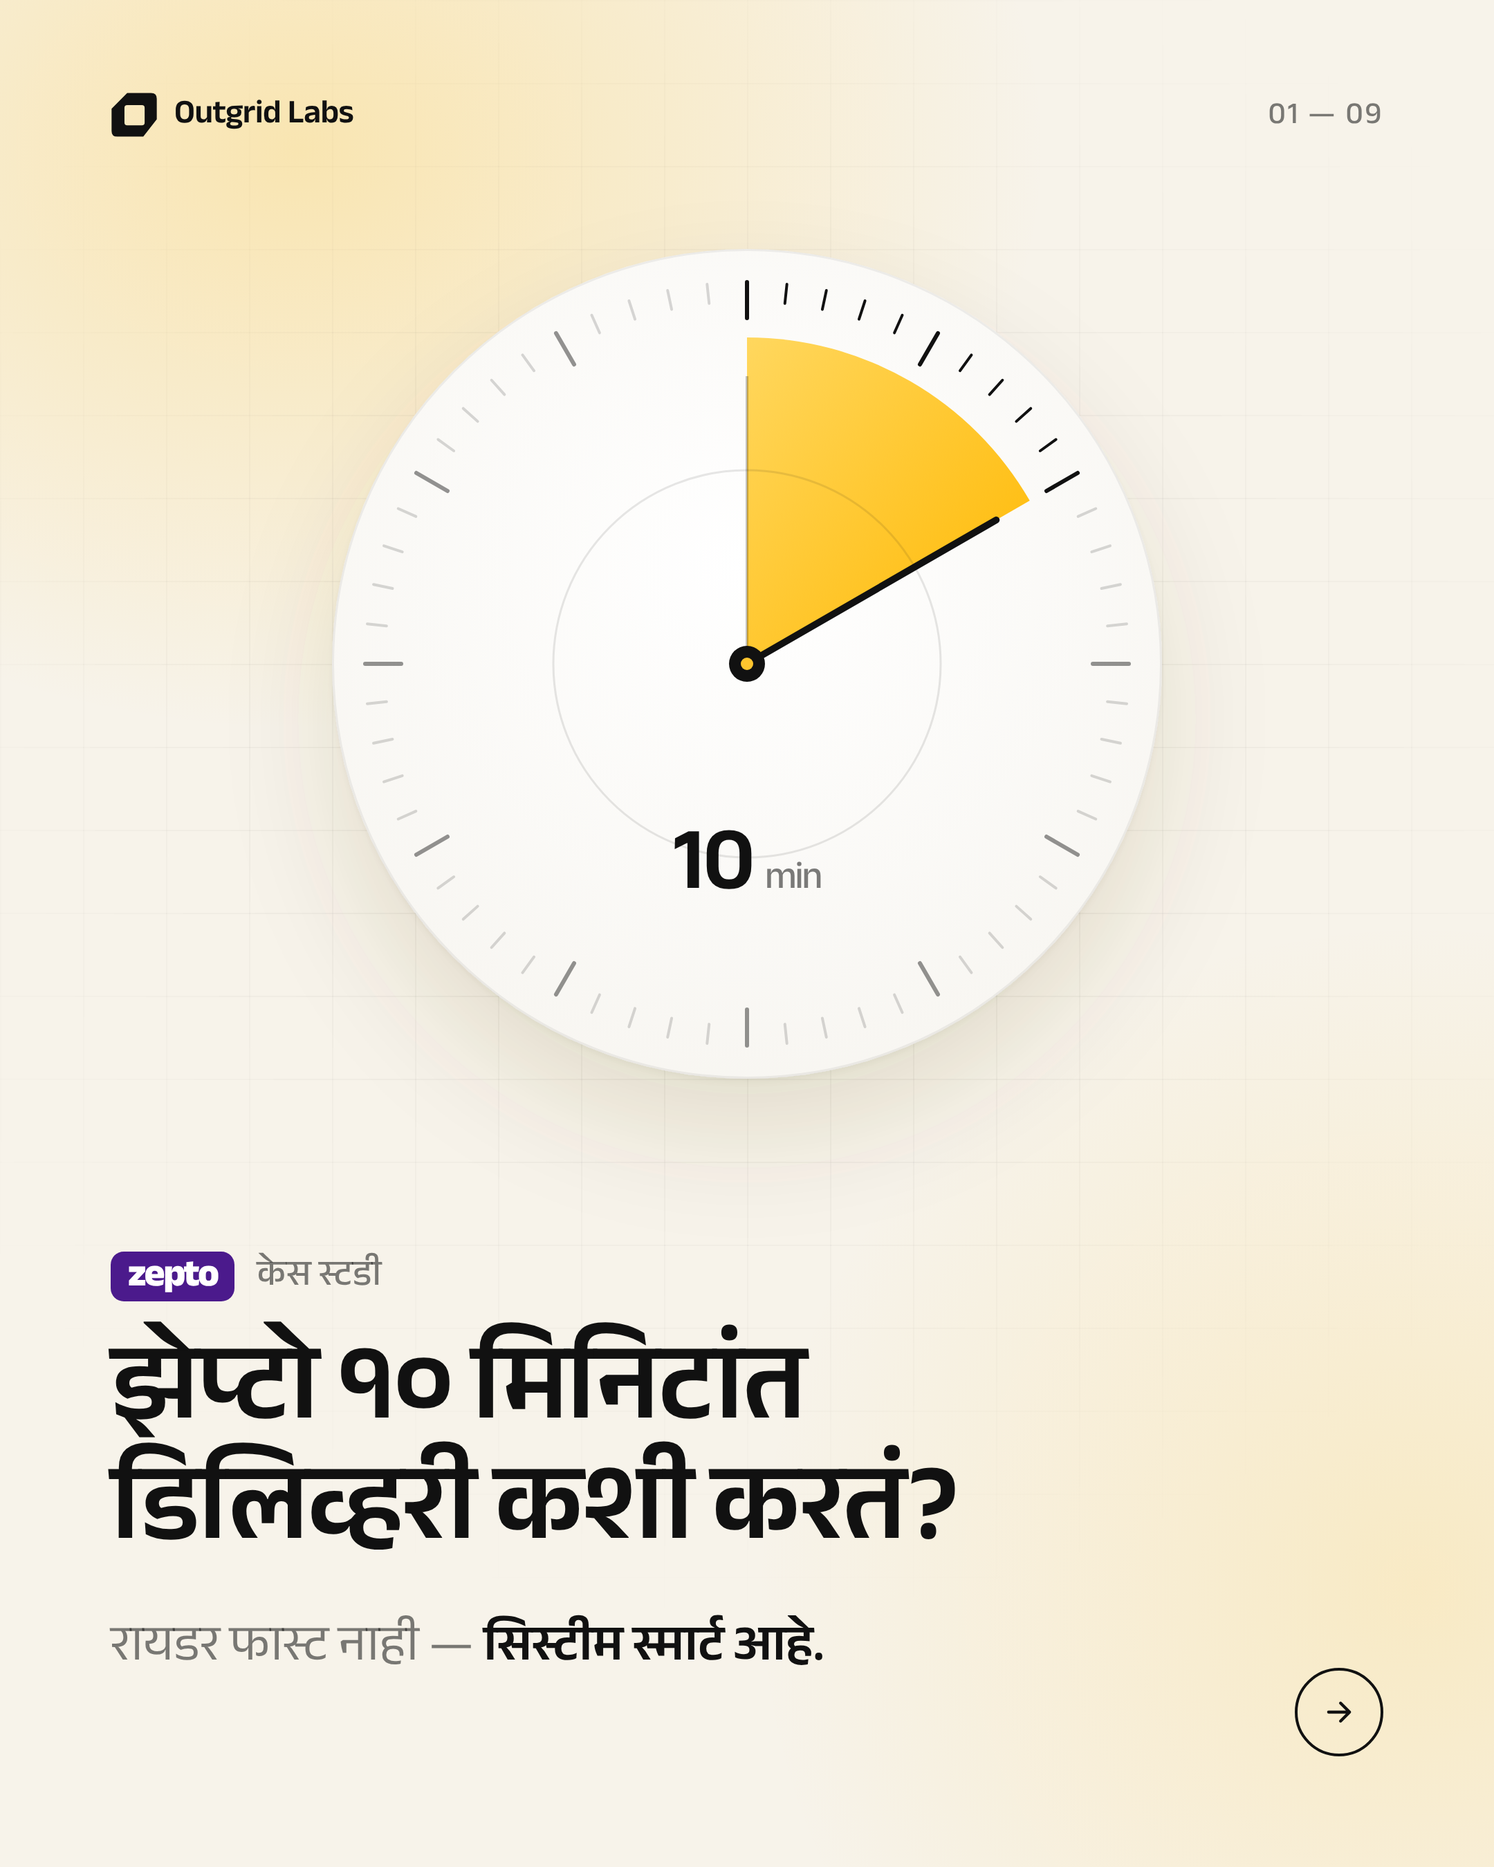
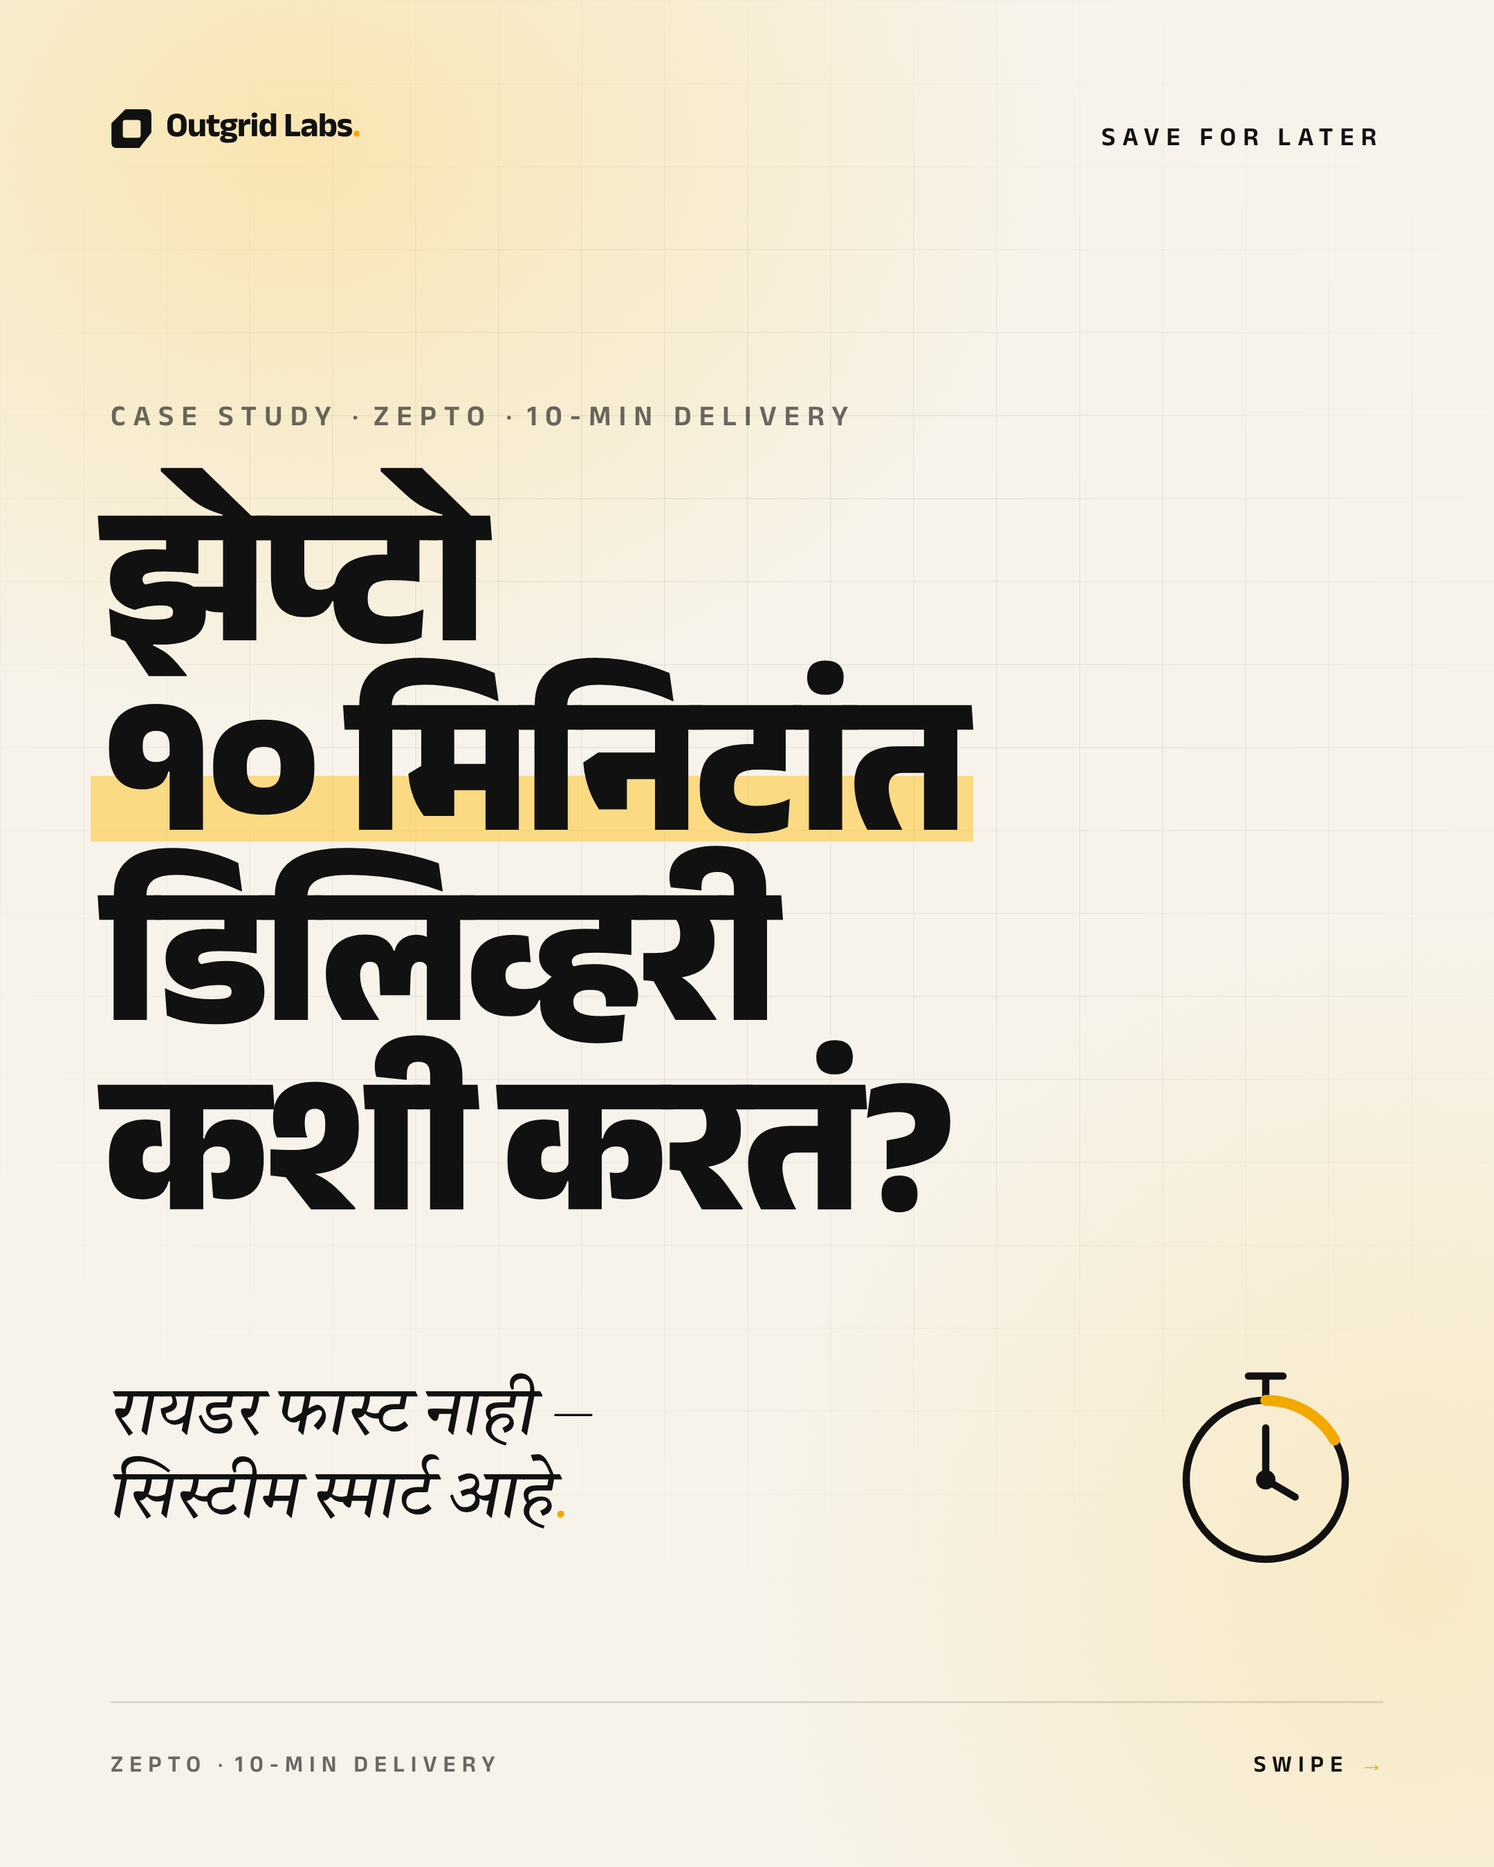
Zepto carousel v3: type-led editorial layout (big cover title, normal inner pages)
Claude-Session: https://claude.ai/code/session_019gSuA1tVo8iRHJcbRmoHkp

diff --git a/outgrid-reels/reels/zepto-carousel/reel.jsx b/outgrid-reels/reels/zepto-carousel/reel.jsx
@@ -1,160 +1,150 @@
 // Zepto "10-minute delivery" Instagram carousel, 1080x1350 (4:5). One frame per slide: frame 0 = slide 1.
-// Outgrid lean light background. v2 direction: one precise hero graphic per slide on a white "lens" disc,
-// hairline geometry, one yellow accent, Zepto purple only for Zepto things, big quiet whitespace, no extra chrome.
+// v3 direction (from the user's focusedmind / yuv.mehta references): type-led editorial.
+//  - Cover: the title IS the design: huge, heavy, tight line height, a marker highlight on the key words, an accent dot.
+//  - Inner pages: normal-size heading + body, one small line-icon diagram (ink strokes, one yellow accent).
+//  - Chrome: brand top-left, tracked caps "SAVE FOR LATER" top-right, hairline footer with topic + "SWIPE →".
+// Background = the regular Outgrid light reel background (cream, grid, yellow glow).
 // Render: node scripts/stills_fast.mjs reels/zepto-carousel reels/zepto-carousel/stills 2 0 1 ...
 import React from 'react';
-import {registerRoot, Composition, AbsoluteFill, useCurrentFrame} from 'remotion';
+import {registerRoot, Composition, AbsoluteFill, useCurrentFrame, staticFile, delayRender, continueRender} from 'remotion';
 import {abs, Y, Mark, BRAND} from '../../shared/kit.jsx';
-import {THEMES, ThemeCtx, LeanBg, LAT, Ico} from '../../shared/lean.jsx';
+import {THEMES, ThemeCtx, LeanBg} from '../../shared/lean.jsx';
+
+// italic serif for the sub-line (Tiro Devanagari Marathi italic + Instrument Serif italic for Latin)
+const fh = delayRender('serif');
+Promise.all([
+  new FontFace('ZSerif', `url(${staticFile('fonts/mai/tiro-devanagari-marathi-devanagari-400-italic.woff2')})`, {style: 'italic', unicodeRange: 'U+0900-097F, U+1CD0-1CF9, U+200C-200D, U+20A8, U+20B9, U+25CC, U+A830-A839, U+A8E0-A8FF'}),
+  new FontFace('ZSerif', `url(${staticFile('fonts/mai/instrument-serif-latin-400-italic.woff2')})`, {style: 'italic'}),
+].map((f) => f.load().then((x) => document.fonts.add(x)))).catch(() => {}).finally(() => continueRender(fh));
 
 const W = 1080, H = 1350, N = 9, PAD = 80;
 const INK = '#111111';
-const SOFT = 'rgba(17,17,17,0.55)';
-const HAIR = 'rgba(17,17,17,0.10)';
-const ZP = '#4B1A8C'; // Zepto purple (placeholder wordmark until the official logo file is added)
-const CX = 540, CY = 480, R = 300; // hero disc
+const SOFT = 'rgba(17,17,17,0.62)';
+const DOT = '#F2A900'; // accent dot: deeper Outgrid yellow so it reads on cream
+const HL = 'rgba(255,197,46,0.55)'; // marker highlight
+const TRACK = {fontFamily: 'Anek, sans-serif', fontSize: 19, fontWeight: 600, letterSpacing: '0.26em', textTransform: 'uppercase', color: INK};
 
-/* ---------- primitives ---------- */
-const P = (cx, cy, r, deg) => [cx + r * Math.sin((deg * Math.PI) / 180), cy - r * Math.cos((deg * Math.PI) / 180)];
-const sector = (cx, cy, r, a0, a1) => {
-  const [x0, y0] = P(cx, cy, r, a0), [x1, y1] = P(cx, cy, r, a1);
-  return `M${cx} ${cy} L${x0} ${y0} A${r} ${r} 0 ${a1 - a0 > 180 ? 1 : 0} 1 ${x1} ${y1} Z`;
-};
-const ZeptoWord = ({size = 30}) => (
-  <div style={{display: 'inline-flex', background: ZP, color: '#fff', borderRadius: size * 0.34, padding: `${size * 0.22}px ${size * 0.44}px ${size * 0.06}px`,
-    fontWeight: 800, fontSize: size, letterSpacing: '-0.045em', lineHeight: 1}}>zepto</div>
+/* ---------- type helpers ---------- */
+// marker highlight behind the lower ~half of the line, like the reference
+const Hl = ({children}) => (
+  <span style={{position: 'relative', display: 'inline-block', isolation: 'isolate'}}>
+    <span style={{position: 'absolute', left: '-0.06em', right: '-0.06em', top: '0.37em', height: '0.34em', background: HL, zIndex: -1}} />{children}
+  </span>
 );
-// the white lens every hero graphic sits on
-const Disc = ({children}) => (
-  <svg width={W} height={980} viewBox={`0 0 ${W} 980`} style={{position: 'absolute', left: 0, top: 0, overflow: 'visible'}}>
-    <defs>
-      <radialGradient id="face" cx="50%" cy="38%" r="70%"><stop offset="0" stopColor="#FFFFFF" /><stop offset="1" stopColor="#F7F5F0" /></radialGradient>
-      <linearGradient id="wedge" x1="0" y1="0" x2="1" y2="1"><stop offset="0" stopColor="#FFD75E" /><stop offset="1" stopColor="#FFB800" /></linearGradient>
-      <filter id="lift" x="-30%" y="-30%" width="160%" height="160%">
-        <feDropShadow dx="0" dy="40" stdDeviation="40" floodColor="#5A430A" floodOpacity="0.12" />
-        <feDropShadow dx="0" dy="2" stdDeviation="2" floodColor="#000" floodOpacity="0.05" />
-      </filter>
-    </defs>
-    <circle cx={CX} cy={CY} r={R} fill="url(#face)" filter="url(#lift)" />
-    <circle cx={CX} cy={CY} r={R - 0.75} fill="none" stroke="rgba(17,17,17,0.06)" strokeWidth="1.5" />
-    {children}
+const Dot = () => <span style={{color: DOT}}>.</span>;
+
+/* ---------- chrome ---------- */
+const Chrome = ({i, topic}) => (
+  <>
+    <div style={{...abs(PAD, 78), display: 'flex', alignItems: 'center', gap: 10}}>
+      <Mark size={30} color={INK} />
+      <div style={{...BRAND, fontSize: 25, fontWeight: 700, color: INK, letterSpacing: '-0.02em'}}>Outgrid Labs<span style={{color: DOT}}>.</span></div>
+    </div>
+    <div style={{...abs(W - PAD - 400, 86), width: 400, textAlign: 'right', ...TRACK}}>Save for later</div>
+    <div style={{...abs(PAD, H - 120), width: W - PAD * 2, height: 1.5, background: 'rgba(17,17,17,0.12)'}} />
+    <div style={{...abs(PAD, H - 86), ...TRACK, fontSize: 17, color: SOFT}}>{topic}</div>
+    <div style={{...abs(W - PAD - 300, H - 86), width: 300, textAlign: 'right', ...TRACK, fontSize: 17}}>
+      {i < N - 1 ? <>Swipe <span style={{color: DOT, letterSpacing: 0}}>→</span></> : `${i + 1} / ${N}`}
+    </div>
+  </>
+);
+const Eyebrow = ({children, top}) => <div style={{...abs(PAD, top), ...TRACK, fontSize: 21, color: SOFT}}>{children}</div>;
+
+/* ---------- line icons: ink strokes + one yellow accent ---------- */
+const SW = 7;
+const Stopwatch = ({size = 170}) => (
+  <svg viewBox="0 0 120 120" width={size} height={size} fill="none" stroke={INK} strokeWidth={SW * 0.6} strokeLinecap="round" strokeLinejoin="round">
+    <path d="M50 8h20M60 8v12" />
+    <circle cx="60" cy="68" r="46" />
+    <path d="M60 22 A46 46 0 0 1 99.8 45" stroke={DOT} strokeWidth={SW * 0.9} />
+    <path d="M60 68V38" /><path d="M60 68l17 10" />
+    <circle cx="60" cy="68" r="3.5" fill={INK} />
   </svg>
 );
-const Mono = ({children, style = {}}) => <div style={{fontSize: 24, fontWeight: 500, color: SOFT, letterSpacing: '0.03em', ...style}}>{children}</div>;
 
-/* ---------- chrome: only the brand and the page number ---------- */
-const Header = ({i}) => (
+/* ---------- slide 1: cover ---------- */
+const S1 = () => (
   <>
-    <div style={{...abs(PAD, 66), display: 'flex', alignItems: 'center', gap: 12}}>
-      <Mark size={34} color={INK} />
-      <div style={{...BRAND, fontSize: 24, fontWeight: 600, color: INK, letterSpacing: '-0.01em'}}>Outgrid Labs</div>
+    <Eyebrow top={286}>Case study · Zepto · 10-min delivery</Eyebrow>
+    <div style={{...abs(PAD - 6, 372), fontSize: 140, fontWeight: 800, color: INK, lineHeight: 0.98, letterSpacing: '-0.035em'}}>
+      <div>झेप्टो</div>
+      <div><Hl>१० मिनिटांत</Hl></div>
+      <div>डिलिव्हरी</div>
+      <div>कशी करतं?</div>
     </div>
-    <div style={{...abs(W - PAD - 120, 72), width: 120, textAlign: 'right', ...BRAND, fontSize: 22, fontWeight: 500, color: SOFT, letterSpacing: '0.06em'}}>
-      {String(i + 1).padStart(2, '0')} — {String(N).padStart(2, '0')}
+    <div style={{...abs(PAD, 990), fontFamily: 'ZSerif, serif', fontStyle: 'italic', fontSize: 50, color: INK, lineHeight: 1.2}}>
+      रायडर फास्ट नाही —<br />सिस्टीम स्मार्ट आहे<Dot />
     </div>
-  </>
-);
-const Swipe = () => (
-  <div style={{...abs(W - PAD - 64, H - PAD - 64), width: 64, height: 64, borderRadius: 32, border: `2px solid ${INK}`, boxSizing: 'border-box', display: 'flex', alignItems: 'center', justifyContent: 'center'}}>
-    <svg viewBox="0 0 24 24" width={26} height={26} fill="none" stroke={INK} strokeWidth="2" strokeLinecap="round" strokeLinejoin="round"><path d="M5 12h14M13 6l6 6-6 6" /></svg>
-  </div>
-);
-// text block anchored to the bottom: eyebrow, title, one quiet line
-const Copy = ({eyebrow, title, body}) => (
-  <div style={{position: 'absolute', left: PAD, bottom: 130, width: W - PAD * 2}}>
-    <div style={{display: 'flex', alignItems: 'center', gap: 16, height: 40}}>{eyebrow}</div>
-    <div style={{marginTop: 26, fontSize: 78, fontWeight: 600, color: INK, lineHeight: 1.12, letterSpacing: '-0.025em'}}>{title}</div>
-    {body && <div style={{marginTop: 26, fontSize: 36, fontWeight: 400, color: SOFT, lineHeight: 1.4, letterSpacing: '-0.01em', maxWidth: 820}}>{body}</div>}
-  </div>
-);
-const Step = ({n, label}) => (
-  <>
-    <Mono style={{color: INK, fontWeight: 600, fontSize: 24}}>{n}</Mono>
-    <div style={{width: 48, height: 2, background: Y}} />
-    <div style={{fontSize: 28, fontWeight: 500, color: SOFT, marginTop: 4}}>{label}</div>
+    <div style={{...abs(W - PAD - 160, 985)}}><Stopwatch size={150} /></div>
   </>
 );
 
-/* ---------- slide 1: a 60-minute dial, the first 10 minutes cut out in yellow ---------- */
-const S1 = () => {
-  const ticks = Array.from({length: 60}, (_, k) => k);
-  const [hx, hy] = P(CX, CY, R - 92, 60);
+/* ---------- slide 2: location = dark store ---------- */
+// distance ruler: you -> stores at 0.8 / 2.4 / 3.1 km, the nearest one picked
+const Ruler = ({x, y, w = 920}) => {
+  const k = (km) => 40 + (km / 3.4) * (w - 80);
+  const Store = ({cx, on}) => (
+    <g transform={`translate(${cx - 34} ${-104})`} strokeWidth="4.5">
+      <path d="M6 26 L12 4 H56 L62 26" fill={on ? Y : 'none'} />
+      <path d="M6 26 V66 H62 V26" fill={on ? '#fff' : 'none'} />
+      <path d="M6 26 H62" />
+      <path d="M26 66 V46 H42 V66" />
+    </g>
+  );
+  return (
+    <svg width={w} height={260} viewBox={`0 -150 ${w} 260`} style={{position: 'absolute', left: x, top: y, overflow: 'visible'}} fill="none" stroke={INK} strokeLinecap="round" strokeLinejoin="round">
+      <line x1="40" y1="0" x2={w - 40} y2="0" strokeWidth="3" />
+      {Array.from({length: 18}, (_, j) => <line key={j} x1={40 + (j * (w - 80)) / 17} y1="-8" x2={40 + (j * (w - 80)) / 17} y2="8" strokeWidth="2" stroke="rgba(17,17,17,0.35)" />)}
+      {/* you */}
+      <path d="M40 -26 c-14 0 -24 10 -24 23 c0 16 24 33 24 33 s24 -17 24 -33 c0 -13 -10 -23 -24 -23 z" transform="translate(0 -40)" fill={INK} strokeWidth="0" />
+      <circle cx="40" cy="-43" r="7" fill="#fff" strokeWidth="0" />
+      <Store cx={k(0.8)} on /><Store cx={k(2.4)} /><Store cx={k(3.1)} />
+      <path d={`M40 0 H${k(0.8)}`} stroke={DOT} strokeWidth="9" />
+      {[0.8, 2.4, 3.1].map((km) => <circle key={km} cx={k(km)} cy="0" r="9" fill={km === 0.8 ? INK : '#fff'} strokeWidth="3" />)}
+    </svg>
+  );
+};
+const RulerLabels = ({x, y, w = 920}) => {
+  const k = (km) => 40 + (km / 3.4) * (w - 80);
+  const L = ({km, on, t}) => (
+    <div style={{...abs(x + k(km) - 100, y + 172), width: 200, textAlign: 'center'}}>
+      <div style={{fontSize: 34, fontWeight: 700, color: on ? INK : 'rgba(17,17,17,0.4)', letterSpacing: '-0.02em'}}>{km} km</div>
+      {t && <div style={{fontSize: 26, fontWeight: 500, color: SOFT, marginTop: 2}}>{t}</div>}
+    </div>
+  );
   return (
     <>
-      <Disc>
-        {ticks.map((k) => {
-          const major = k % 5 === 0;
-          const [x0, y0] = P(CX, CY, R - (major ? 50 : 38), k * 6), [x1, y1] = P(CX, CY, R - 24, k * 6);
-          return <line key={k} x1={x0} y1={y0} x2={x1} y2={y1} stroke={k <= 10 ? INK : major ? 'rgba(17,17,17,0.45)' : 'rgba(17,17,17,0.16)'} strokeWidth={major ? 3 : 2} strokeLinecap="round" />;
-        })}
-        <path d={sector(CX, CY, R - 64, 0, 60)} fill="url(#wedge)" />
-        <circle cx={CX} cy={CY} r={R - 160} fill="none" stroke={HAIR} strokeWidth="1.5" />
-        <line x1={CX} y1={CY} x2={CX} y2={CY - (R - 92)} stroke={INK} strokeWidth="2" strokeOpacity="0.25" />
-        <line x1={CX} y1={CY} x2={hx} y2={hy} stroke={INK} strokeWidth="5" strokeLinecap="round" />
-        <circle cx={CX} cy={CY} r="13" fill={INK} /><circle cx={CX} cy={CY} r="4.5" fill={Y} />
-      </Disc>
-      {/* readout in the lower half of the dial */}
-      <div style={{...abs(CX - 150, CY + 120), width: 300, textAlign: 'center', fontSize: 64, fontWeight: 600, color: INK, lineHeight: 1, ...LAT}}>
-        10<span style={{fontSize: 28, fontWeight: 500, color: SOFT, marginLeft: 8}}>min</span>
-      </div>
-      <Copy
-        eyebrow={<><ZeptoWord size={28} /><div style={{fontSize: 26, fontWeight: 500, color: SOFT, marginTop: 4}}>केस स्टडी</div></>}
-        title={<>झेप्टो १० मिनिटांत<br />डिलिव्हरी कशी करतं?</>}
-        body={<>रायडर फास्ट नाही — <span style={{color: INK, fontWeight: 600}}>सिस्टीम स्मार्ट आहे.</span></>} />
-      <Swipe />
+      <div style={{...abs(x - 40, y + 172), width: 160, textAlign: 'center', fontSize: 26, fontWeight: 600, color: INK}}>तुम्ही</div>
+      <L km={0.8} on t="तुमचं स्टोअर" /><L km={2.4} /><L km={3.1} />
     </>
   );
 };
-
-/* ---------- slide 2: radar from your location, nearest dark store locks on ---------- */
-const S2 = () => {
-  const near = P(CX, CY, 132, 52), far1 = P(CX, CY, 232, 205), far2 = P(CX, CY, 250, 122);
-  const Sq = ({p, s, on}) => on
-    ? <g><rect x={p[0] - s / 2} y={p[1] - s / 2} width={s} height={s} rx={s * 0.28} fill={ZP} /></g>
-    : <rect x={p[0] - s / 2} y={p[1] - s / 2} width={s} height={s} rx={s * 0.28} fill="#fff" stroke="rgba(17,17,17,0.28)" strokeWidth="2" />;
-  return (
-    <>
-      <Disc>
-        <defs>
-          <radialGradient id="sweep" cx={CX} cy={CY} r={R - 20} gradientUnits="userSpaceOnUse"><stop offset="0" stopColor={Y} stopOpacity="0.55" /><stop offset="1" stopColor={Y} stopOpacity="0.05" /></radialGradient>
-        </defs>
-        {[90, 180, 270].map((r) => <circle key={r} cx={CX} cy={CY} r={r} fill="none" stroke={HAIR} strokeWidth="1.5" />)}
-        <line x1={CX - R + 20} y1={CY} x2={CX + R - 20} y2={CY} stroke={HAIR} strokeWidth="1.5" />
-        <line x1={CX} y1={CY - R + 20} x2={CX} y2={CY + R - 20} stroke={HAIR} strokeWidth="1.5" />
-        <path d={sector(CX, CY, R - 20, 22, 62)} fill="url(#sweep)" />
-        <line x1={CX} y1={CY} x2={near[0]} y2={near[1]} stroke={INK} strokeWidth="2.5" />
-        <Sq p={far1} s={34} /><Sq p={far2} s={34} />
-        <Sq p={near} s={58} on />
-        <circle cx={CX} cy={CY} r="30" fill={INK} fillOpacity="0.07" />
-        <circle cx={CX} cy={CY} r="12" fill={INK} stroke="#fff" strokeWidth="5" />
-      </Disc>
-      <div style={{...abs(near[0] - 15, near[1] - 15)}}><Ico d={<><path d="M4.5 10.5V20h15v-9.5" /><path d="M3 10l2-6h14l2 6" /><path d="M10 20v-5h4v5" /></>} size={30} color="#fff" sw={2.2} /></div>
-      <div style={{...abs(near[0] + 46, near[1] - 30)}}>
-        <div style={{fontSize: 34, fontWeight: 600, color: INK, lineHeight: 1, ...LAT}}>0.8 km</div>
-        <div style={{fontSize: 24, fontWeight: 500, color: SOFT, marginTop: 8}}>सर्वात जवळचं स्टोअर</div>
-      </div>
-      <Mono style={{...abs(far1[0] - 120, far1[1] - 12), color: 'rgba(17,17,17,0.35)'}}>2.4 km</Mono>
-      <Mono style={{...abs(far2[0] + 30, far2[1] - 12), color: 'rgba(17,17,17,0.35)'}}>3.1 km</Mono>
-      <Mono style={{...abs(CX - 60, CY + 34), width: 120, textAlign: 'center', color: INK}}>तुम्ही</Mono>
-      <Copy
-        eyebrow={<Step n="01" label="१० मिनिटांचं गुपित" />}
-        title={<>लोकेशन = डार्क स्टोअर</>}
-        body="ॲप उघडताच तुमचं सर्वात जवळचं स्टोअर ठरतं." />
-    </>
-  );
-};
+const S2 = () => (
+  <>
+    <Eyebrow top={286}>01 · Location</Eyebrow>
+    <div style={{...abs(PAD - 3, 350), fontSize: 92, fontWeight: 800, color: INK, lineHeight: 1.04, letterSpacing: '-0.03em'}}>
+      <div>लोकेशन =</div>
+      <div><Hl>डार्क स्टोअर</Hl><Dot /></div>
+    </div>
+    <div style={{...abs(PAD, 580), width: 820, fontSize: 42, fontWeight: 400, color: SOFT, lineHeight: 1.38}}>
+      ॲप उघडताच तुमचं <span style={{color: INK, fontWeight: 600}}>सर्वात जवळचं स्टोअर</span> ठरतं.
+    </div>
+    <Ruler x={PAD} y={820} />
+    <RulerLabels x={PAD} y={820} />
+  </>
+);
 
 const SLIDES = [S1, S2];
 
 const Carousel = () => {
   const f = useCurrentFrame();
-  const t = {...THEMES.light, grid: 'rgba(0,0,0,0.035)'};
+  const t = THEMES.light;
   const Slide = SLIDES[Math.min(f, SLIDES.length - 1)];
   return (
     <ThemeCtx.Provider value={t}>
       <AbsoluteFill style={{fontFamily: 'Anek, sans-serif', color: INK, ...Object.fromEntries(Object.entries(t).map(([k, v]) => [`--l-${k}`, v]))}}>
         <LeanBg f={0} />
-        <Header i={f} />
+        <Chrome i={f} topic="Zepto · 10-min delivery" />
         <Slide />
       </AbsoluteFill>
     </ThemeCtx.Provider>
